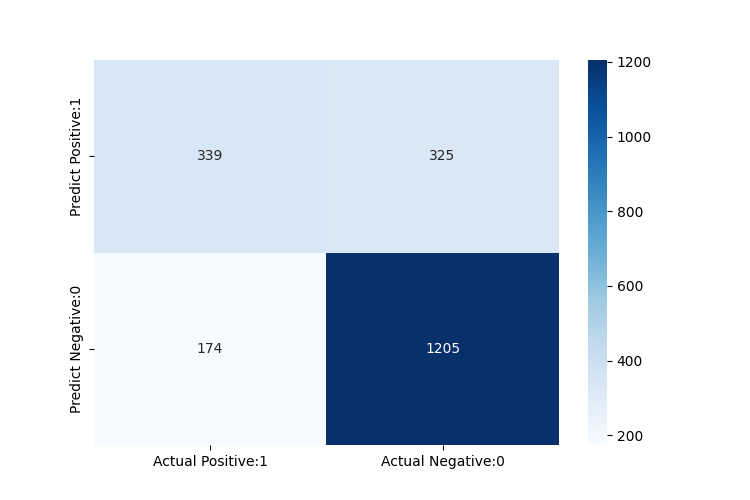
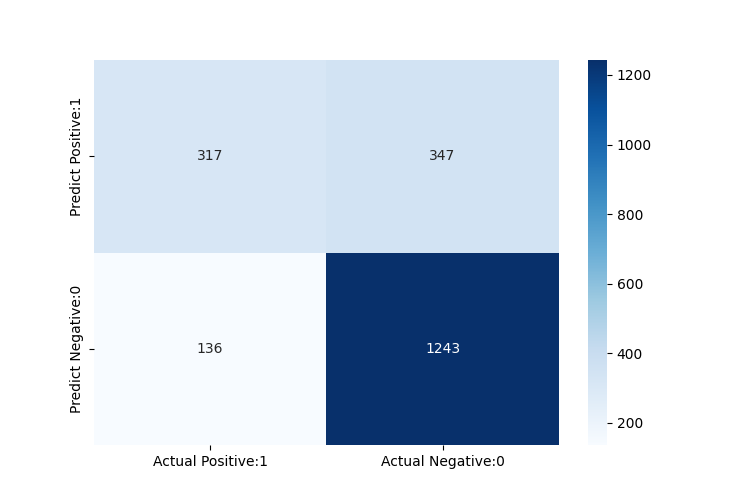
Final_v1
with LR fixed (add learning rate) and all diagrams prepared

diff --git a/PROJECT CODE/models.py b/PROJECT CODE/models.py
@@ -27,12 +27,13 @@ from time import process_time
 # In[3]:
 
 class LogisticRegression():
-    def __init__(self, lamda, add_bias_term):
+    def __init__(self, lamda, lr):
         self.lamda = lamda
-        self.add_bias_term = add_bias_term
+        #self.add_bias_term = add_bias_term
+        self.lr = lr
 
     def fit(self, X_train, y_train):
-        self.weights = logistic_regression_fit(X_train, y_train, lamda=self.lamda)
+        self.weights = logistic_regression_fit(X_train, y_train, lamda=self.lamda,lr=self.lr)
     
     def predict(self, X_test):
         y_predict = logistic_regression_predict(X_test, self.weights)
@@ -71,12 +72,13 @@ def cross_validation(model, X, y, cv=5):
         cross_vals.append(val_acc)
     return cross_vals
 
-def grid_search(name,group, X, y, cv=3, N=10):
+def grid_search(name,group, X, y, cv=5, N=5):
     
-    svm_hyper = {'C': np.logspace(-1, 5, N), 'gamma': np.logspace(-2, 0, N)}
+    svm_hyper = {'C': np.logspace(-1, 1, N), 'gamma': np.logspace(-2, 1, N)}
     rf_hyper = {'n_estimators': np.arange(10, 100), 'max_depth': np.arange(1, 11)}
     #logist_hyper = {'lr' : [0.001, 0.01, 0.1], 'regularization': ['none',]}
-    logist_hyper = {'lamda' : np.logspace(-4, -1, 5), 'add_bias_term': [True]}
+    #logist_hyper = {'lamda' : np.logspace(-4, -1, 5), 'add_bias_term': [True]}
+    logist_hyper = {'lamda' : np.logspace(-4, -1, 5), 'lr': np.arange(1,10)*0.1}
     knn_hyper = {'n_neighbors' : np.arange(1, 100), 'weights': ['uniform', 'distance']}
 
     #m2m = {'SVM': (SVM, svm_hyper), 'RF': (RandomForest, rf_hyper), 'Logistic': (LogisticRegression, logist_hyper)}
@@ -97,7 +99,7 @@ def grid_search(name,group, X, y, cv=3, N=10):
             hyper[bkey] = beta
             model = Model(**hyper)
             avg_score = np.mean(cross_validation(model, X, y, cv=cv))
-            print(avg_score,hyper)
+            #print(avg_score,hyper)
             scores.append((avg_score, hyper))
             twoDscores[i,j] = avg_score
     

diff --git a/PROJECT CODE/fomlads/model/classification.py b/PROJECT CODE/fomlads/model/classification.py
@@ -155,7 +155,7 @@ def shared_covariance_model_predict(inputs, pi, mean0, mean1, covmtx):
 
 def logistic_regression_fit(
         inputs, targets, weights0=None, termination_threshold=1e-8,
-        add_bias_term=True,lamda=0):
+        add_bias_term=True,lamda=0,lr=0.01):
     """
     Fits a set of weights to the logistic regression model using the iteratively
     reweighted least squares (IRLS) method (Rubin, 1983)
@@ -193,7 +193,10 @@ def logistic_regression_fit(
     # initially the update magnitude is set as larger than the
     # termination_threshold to ensure the first iteration runs
     update_magnitude = 2*termination_threshold
-    while update_magnitude > termination_threshold:
+    max_epoch = 1000
+    count = 0
+
+    while update_magnitude > termination_threshold and count < max_epoch:
         # calculate the current prediction vector for weights
         # we don't want to extend the inputs a second time so add_bias_term
         # is set to False
@@ -204,14 +207,16 @@ def logistic_regression_fit(
         # reshape predicts to be same form as targets
         predicts = predicts.reshape((N,1))
         # Calculate the Hessian inverse with new L2 regularisation term
-        H_inv = np.linalg.inv(inputs.T @ R @ inputs + lamda*(np.diag(np.abs(weights))**-1))
+        # H_inv = np.linalg.inv(inputs.T @ R @ inputs + lamda*(np.diag(np.abs(weights))**-1))
         # update the weights
         # I have added a new regularisation term within the new weights, using L2 regularisation
-        new_weights = weights - (H_inv @ inputs.T @ (predicts-targets) )
+        new_weights = weights - lr * (lamda * inputs.T @ (predicts-targets) + weights)
+        #new_weights = weights - (H_inv @ inputs.T @(predicts - targets))
         # calculate the update_magnitude
         update_magnitude = np.sqrt(np.sum((new_weights-weights)**2))
         # update the weights
         weights = new_weights
+        count += 1
         
     return weights
 

diff --git a/PROJECT CODE/main.py b/PROJECT CODE/main.py
@@ -26,7 +26,7 @@ from processing import processing
 
 from models import LogisticRegression
 from models import RandomForest, SVM, KNN
-from models import grid_search, evaluate_model
+from models import grid_search, LR_lambda_cv, evaluate_model
 
 
 # In[6]:
@@ -58,7 +58,7 @@ def command_parse():
 
     argparser.add_argument("--N",
                             help = "hyperparameter search size",
-                            default = 3,
+                            default = 5,
                             type = int)
     
 
@@ -67,12 +67,6 @@ def command_parse():
     return args
 
 
-def exploration():
-    pass
-
-
-
-    
 
 def main(args):
 
@@ -86,14 +80,15 @@ def main(args):
     wX_train, wy_train, wX_test, wy_test = processing(args.dataset, args.sample_size, group = "white", test_frac=args.test_frac, state=state)
     
     print("Performing grid search")
-    r_val_acc, r_hyper = grid_search(args.model, "red",rX_train, ry_train, cv=1, N=args.N)
+    r_val_acc, r_hyper = grid_search(args.model, "red",rX_train, ry_train, cv=args.cv, N=args.N)
     print("The best hyper parameters found for red wine: {}".format(r_hyper))
-    w_val_acc, w_hyper = grid_search(args.model,"white", wX_train, wy_train, cv=1, N=args.N)
+    w_val_acc, w_hyper = grid_search(args.model,"white", wX_train, wy_train, cv=args.cv, N=args.N)
     print("The best hyper parameters found for white wine: {}".format(w_hyper))
 
-
     print("Evaluate the model using best hyperparameters found")
+    print("The classification report for red wine:")
     evaluate_model(args.model,"red", rX_train, ry_train, rX_test, ry_test, r_hyper)
+    print("The classification report for white wine:")
     evaluate_model(args.model,"white", wX_train, wy_train, wX_test, wy_test, w_hyper)
     #SVM
     
